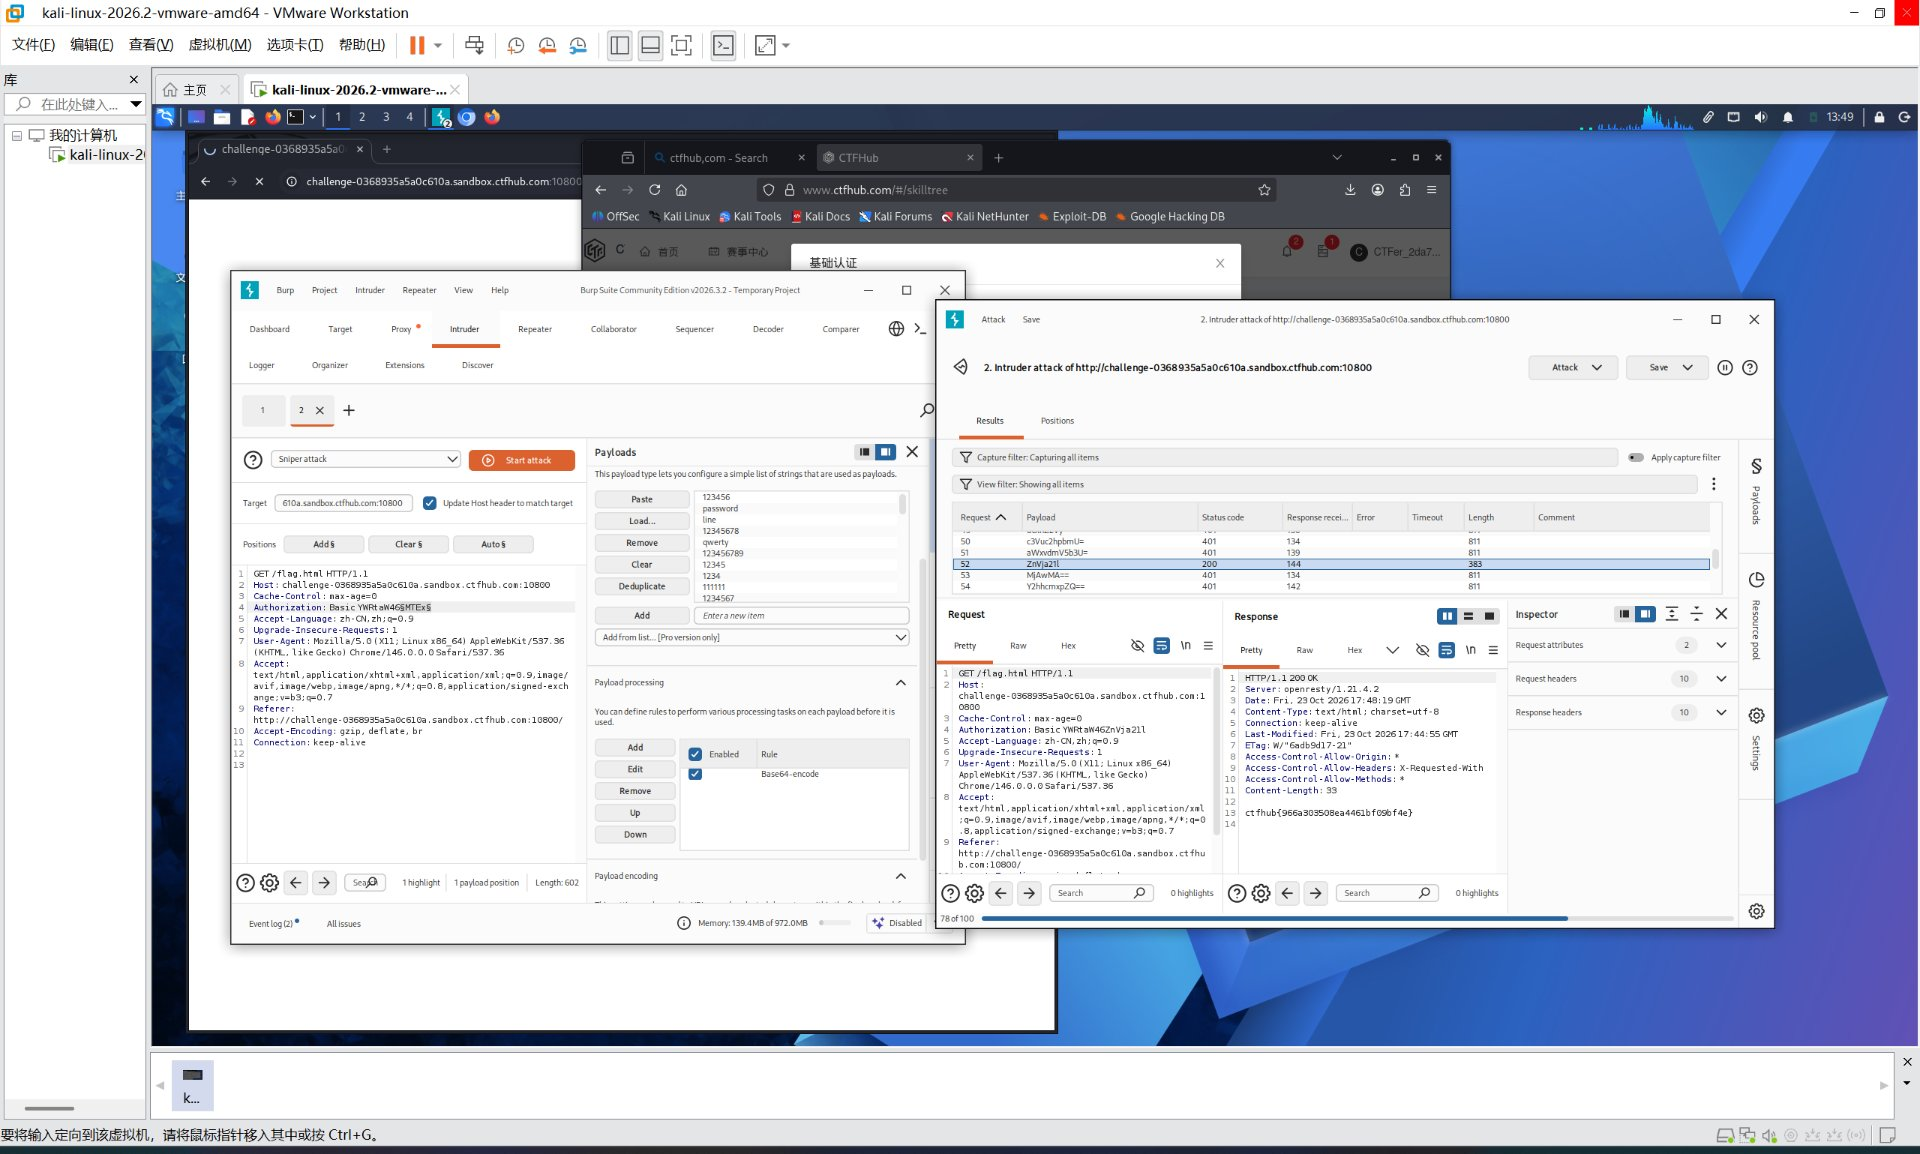
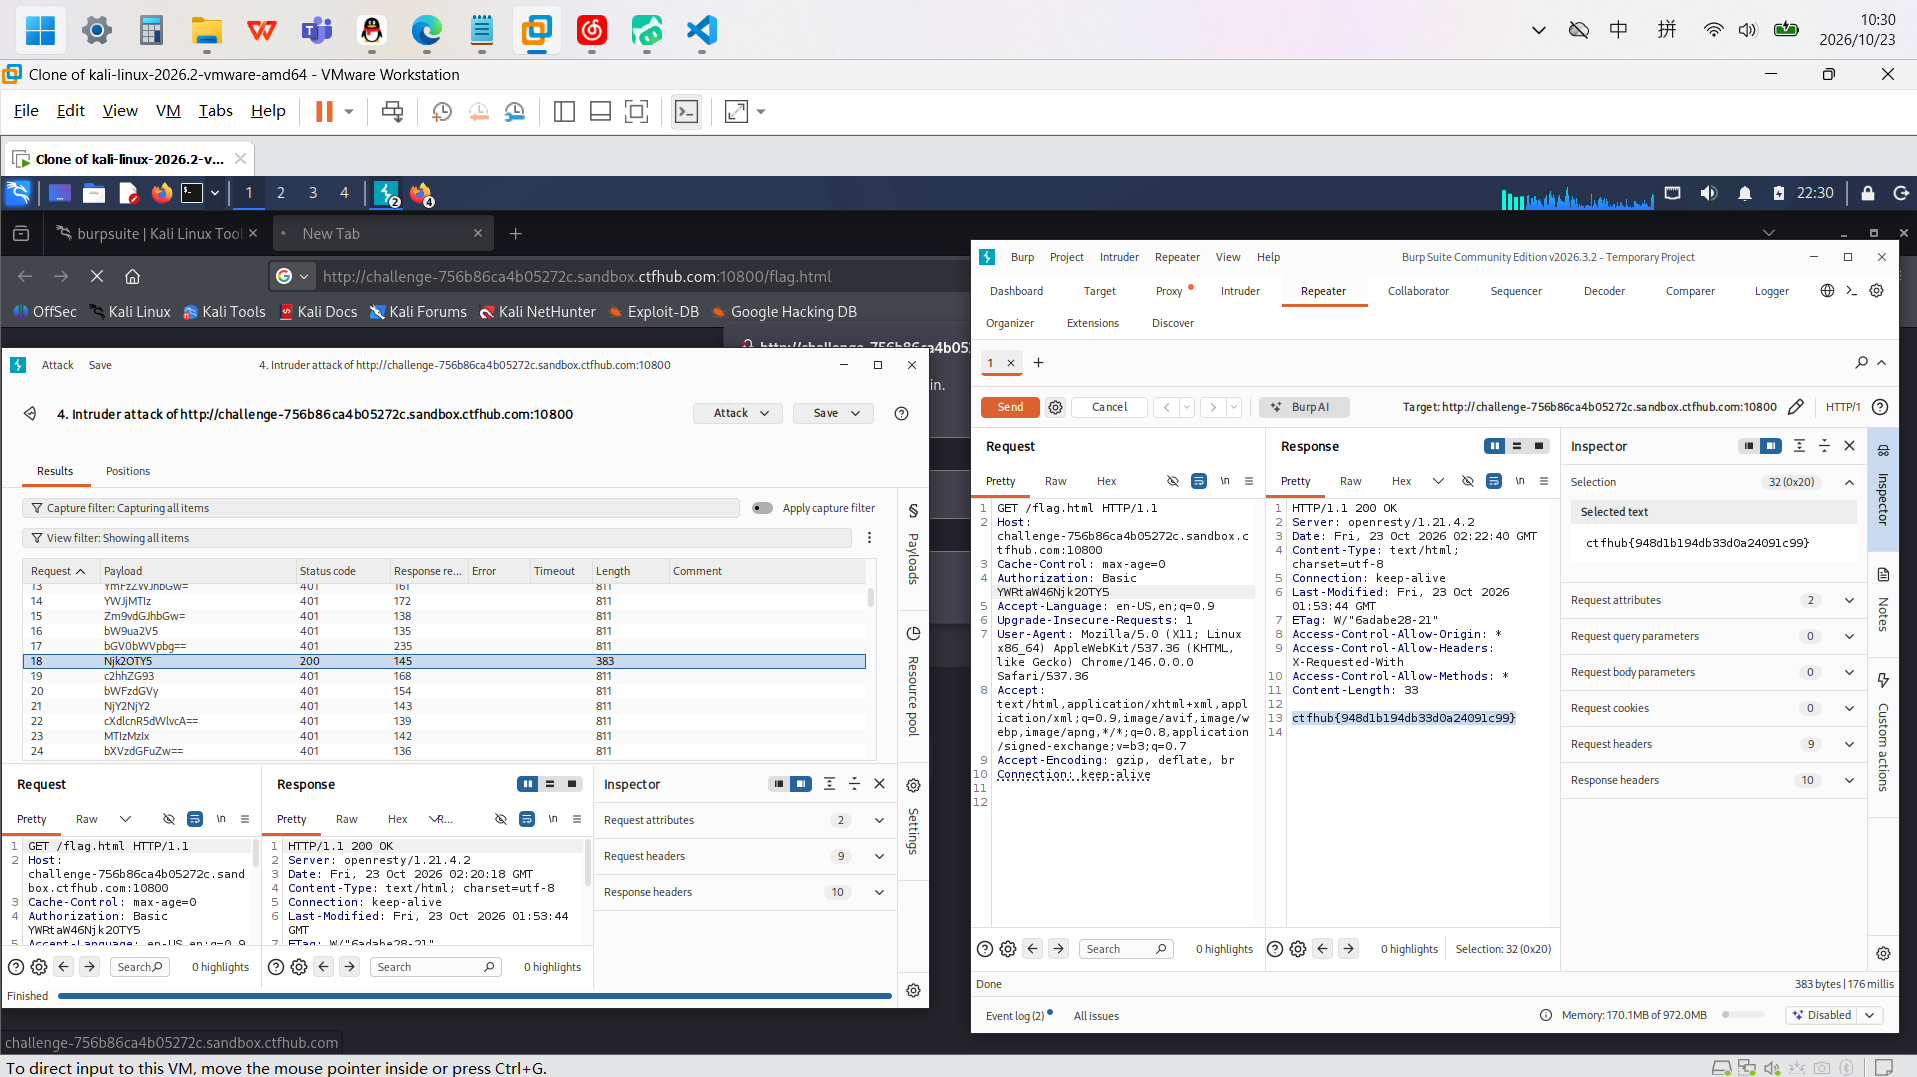
[2026010040段隋]Lab5作业更新（新环境flag与截图）

diff --git a/2026010040段隋/Lab5/wp/wp_basic_auth.md b/2026010040段隋/Lab5/wp/wp_basic_auth.md
@@ -11,33 +11,30 @@
 
 | 项目 | 内容 |
 | --- | --- |
-| 环境地址 | http://challenge-038859a5a0c851e.sandbox.ctfhub.com:10800/ |
-| Flag | ctfhub{966a303508ea4461bf09bf4e} |
+| 环境地址 | http://challenge-756b86ca4b05272c.sandbox.ctfhub.com:10800/ |
+| Flag | ctfhub{948d1b194db33d0a24091c99} |
 
 ## 解题过程
 
-开启题目后访问靶场首页，服务器返回 `401 Unauthorized`，响应头中带 `WWW-Authenticate: Basic realm="..."`，浏览器弹出用户名/密码登录框，说明这是 HTTP Basic 认证。题目提示是弱口令，并且页面提供了「加密访问」选项——勾选后前端会把密码加密再提交。我在 Burp 中把登录请求发送到 Intruder，username 固定为 `admin`，把 `password` 的值设为 payload 位置，用常见弱口令字典逐个尝试。抓到的请求体里，password 是加密后的密文；当密文为 `021256` 时返回 `200 OK`，响应体中直接出现了 flag，它对应的明文密码是 `696969`。请求头中的 `Authorization: Basic YWRtaW46YWRtaW4=`（解码为 `admin:admin`）则体现了 Basic 认证把凭证做 Base64 后放进请求头的方式。
+开启题目后点击页面链接，服务器对 `flag.html` 返回 `401 Unauthorized`，响应头中带 `WWW-Authenticate: Basic realm="Do u know admin ?"`，浏览器弹出用户名/密码登录框，说明这是 HTTP Basic 认证。我先随便填了一组用户名密码，在 Burp 里抓到请求头多了一行 `Authorization: Basic ...`，Base64 解码正好是 `用户名:密码`，验证了它只是编码、没有加密。题目附件是一个常见弱口令字典，于是我把请求发到 Intruder，把 `Basic ` 后面那串编码设为 payload 位置，在 Payload processing 里先加前缀 `admin:`、再做 Base64 编码，并取消 URL 编码（否则编码后的 `=` 会被转成 `%3D` 导致服务端解不开）。开始攻击后按状态码排序，绝大多数是 401，只有一条返回 `200 OK`，对应密码 `696969`，其 `Authorization: Basic YWRtaW46Njk2OTY5` 解码正是 `admin:696969`。用它重放请求，响应体中直接返回了 flag。
 
 ## 关键请求/响应
 
 ```http
 GET /flag.html HTTP/1.1
-Host: challenge-038859a5a0c851e.sandbox.ctfhub.com:10800
-Authorization: Basic YWRtaW46YWRtaW4=
-Content-Type: application/x-www-form-urlencoded
-Content-Length: 30
-
-username=admin&password=021256
+Host: challenge-756b86ca4b05272c.sandbox.ctfhub.com:10800
+Authorization: Basic YWRtaW46Njk2OTY5
+Connection: keep-alive
 
 HTTP/1.1 200 OK
 Server: openresty/1.21.4.2
 Content-Type: text/html; charset=UTF-8
 X-Powered-By: PHP/5.6.40
 
-ctfhub{966a303508ea4461bf09bf4e}
+ctfhub{948d1b194db33d0a24091c99}
 ```
 
-> 说明：请求体中的 `password=021256` 是明文密码 `696969` 在开启「加密访问」后提交的密文。
+> 说明：`YWRtaW46Njk2OTY5` 就是 `base64("admin:696969")`，Base64 只是编码，解码即可还原出用户名和密码。
 
 ## 原理与复盘
 

diff --git a/2026010040段隋/Lab5/wp/wp_dir_traversal.md b/2026010040段隋/Lab5/wp/wp_dir_traversal.md
@@ -11,26 +11,26 @@
 
 | 项目 | 内容 |
 | --- | --- |
-| 环境地址 | http://challenge-ab9f8f67a4237f67.sandbox.ctfhub.com:10800/ |
-| Flag | ctfhub{7484b70b91c3da865496cce4} |
+| 环境地址 | http://challenge-7064c119bbbf8f79.sandbox.ctfhub.com:10800/ |
+| Flag | ctfhub{20160ad52ea9438449fac1a0} |
 
 ## 解题过程
 
-开启题目后访问靶场首页 `/flag_in_here/`，页面是目录索引（autoindex），列出若干以数字命名的子目录。按「目录遍历」的思路，我顺着目录一层层往下点；由于目录层级较深、组合较多，为了更快定位，我也用 Burp Intruder 对目录名做了数字字典爆破，通过响应长度差异区分命中的目录列表页和 404。最终定位到 `/flag_in_here/3/4/` 目录，里面有一个 `flag.txt`，在浏览器打开 `http://challenge-ab9f8f67a4237f67.sandbox.ctfhub.com:10800/flag_in_here/3/4/flag.txt`，页面直接显示出了 flag。
+开启题目后访问靶场首页 `/flag_in_here/`，页面是目录索引（autoindex），列出若干以数字命名的子目录。按「目录遍历」的思路，我顺着目录一层层往下点；由于目录层级较深、组合较多，为了更快定位，我也用 Burp Intruder 对目录名做了数字字典爆破，通过响应长度差异区分命中的目录列表页和 404。最终定位到 `/flag_in_here/2/4/` 目录，里面有一个 `flag.txt`，在浏览器打开 `http://challenge-7064c119bbbf8f79.sandbox.ctfhub.com:10800/flag_in_here/2/4/flag.txt`，页面直接显示出了 flag。
 
 ## 关键请求/响应
 
 ```http
-GET /flag_in_here/3/4/flag.txt HTTP/1.1
-Host: challenge-ab9f8f67a4237f67.sandbox.ctfhub.com:10800
+GET /flag_in_here/2/4/flag.txt HTTP/1.1
+Host: challenge-7064c119bbbf8f79.sandbox.ctfhub.com:10800
 
 HTTP/1.1 200 OK
 Content-Type: text/plain
 
-ctfhub{7484b70b91c3da865496cce4}
+ctfhub{20160ad52ea9438449fac1a0}
 ```
 
-（目录路径为 `/flag_in_here/3/4/flag.txt`；本题不需要修改请求头或请求方法，关键是顺着目录索引逐层遍历。）
+（目录路径为 `/flag_in_here/2/4/flag.txt`；本题不需要修改请求头或请求方法，关键是顺着目录索引逐层遍历。）
 
 ## 原理与复盘
 

diff --git a/2026010040段隋/Lab5/wp/wp_http_method.md b/2026010040段隋/Lab5/wp/wp_http_method.md
@@ -11,28 +11,28 @@
 
 | 项目 | 内容 |
 | --- | --- |
-| 环境地址 | http://challenge-9e6d5f04e6142319.sandbox.ctfhub.com:10800/ |
-| Flag | ctfhub{d9e218bcbcb06ab8a7db27ae} |
+| 环境地址 | http://challenge-416307d3d1399c99.sandbox.ctfhub.com:10800/ |
+| Flag | ctfhub{8c13107b8cf1e51c40ba2109} |
 
 ## 解题过程
 
-打开题目后，浏览器访问 `/index.php`，页面只显示与 HTTP 方法相关的提示，没有 flag，说明服务端是按请求方法区分处理的。我打开 Burp 并开启 Proxy → Intercept，刷新页面拦截到一条 `GET /index.php` 请求；在请求编辑区把请求行第一个词 `GET` 改成 `CTFHUB`，其余请求头原样保留，点 Forward 放行。浏览器页面随即返回 `good job! ctfhub{d9e218bcbcb06ab8a7db27ae}`。这说明服务端只对自定义的 `CTFHUB` 方法返回 flag，默认的 GET 会被拒绝。
+打开题目后，浏览器访问 `/index.php`，页面只显示与 HTTP 方法相关的提示，没有 flag，说明服务端是按请求方法区分处理的。我把这条请求发送到 Burp 的 Repeater，在请求编辑区把请求行第一个词 `GET` 改成 `CTFHUB`，其余请求头原样保留，点 Send 发送。响应面板随即返回 `good job! ctfhub{8c13107b8cf1e51c40ba2109}`。这说明服务端只对自定义的 `CTFHUB` 方法返回 flag，默认的 GET 会被拒绝。
 
 ## 关键请求/响应
 
 ```http
 CTFHUB /index.php HTTP/1.1
-Host: challenge-9e6d5f04e6142319.sandbox.ctfhub.com:10800
+Host: challenge-416307d3d1399c99.sandbox.ctfhub.com:10800
 User-Agent: Mozilla/5.0 (X11; Linux x86_64) AppleWebKit/537.36 (KHTML, like Gecko) Chrome/146.0.0.0 Safari/537.36
 Accept: image/avif,image/webp,image/apng,image/svg+xml,image/*,*/*;q=0.8
-Referer: http://challenge-9e6d5f04e6142319.sandbox.ctfhub.com:10800/index.php
+Referer: http://challenge-416307d3d1399c99.sandbox.ctfhub.com:10800/index.php
 Accept-Encoding: gzip, deflate, br
 Connection: keep-alive
 
 HTTP/1.1 200 OK
 Content-Type: text/html; charset=UTF-8
 
-good job! ctfhub{d9e218bcbcb06ab8a7db27ae}
+good job! ctfhub{8c13107b8cf1e51c40ba2109}
 ```
 
 ## 原理与复盘

diff --git a/2026010040段隋/Lab5/wp/wp_redirect_302.md b/2026010040段隋/Lab5/wp/wp_redirect_302.md
@@ -11,18 +11,18 @@
 
 | 项目 | 内容 |
 | --- | --- |
-| 环境地址 | http://challenge-91921174854df8a1.sandbox.ctfhub.com:10800/ |
-| Flag | ctfhub{468ff017654153f7eaef5f74} |
+| 环境地址 | http://challenge-2115f1620465970.sandbox.ctfhub.com:10800/ |
+| Flag | ctfhub{4a7114d2e7922f0464063829} |
 
 ## 解题过程
 
-打开题目后，浏览器访问 `/index.html`，页面只显示「No Flag here!」和一个「Give me Flag」链接，没有 flag。点击「Give me Flag」时页面会请求 `/index.php`，但浏览器立刻又跳回 `index.html`，看起来什么都没发生。为了看清跳转前的真实响应，我打开 Burp 的 Proxy → HTTP history，找到那条 `GET /index.php` 请求：状态码是 `302 Moved Temporarily`，响应头里有 `Location: /index.html`，而 302 的响应体里正是 flag。浏览器会自动跟随 Location，把这段 302 响应连同响应体隐藏掉了，所以只盯最终页面永远看不到 flag，必须看原始报文。
+打开题目后，浏览器访问 `/index.html`，页面只显示「No Flag here!」和一个「Give me Flag」链接，没有 flag。点击「Give me Flag」时页面会请求 `/index.php`，但浏览器立刻又跳回 `index.html`，看起来什么都没发生。为了看清跳转前的真实响应，我把对 `/index.php` 的请求发到 Burp 的 Repeater 重放：状态码是 `302 Moved Temporarily`，响应头里有 `Location: /index.html`，而 302 的响应体里正是 flag。浏览器会自动跟随 Location，把这段 302 响应连同响应体隐藏掉了，所以只盯最终页面永远看不到 flag，必须看原始报文。
 
 ## 关键请求/响应
 
 ```http
 GET /index.php HTTP/1.1
-Host: challenge-91921174854df8a1.sandbox.ctfhub.com:10800
+Host: challenge-2115f1620465970.sandbox.ctfhub.com:10800
 
 HTTP/1.1 302 Moved Temporarily
 Server: openresty/1.21.4.2
@@ -36,7 +36,7 @@ Access-Control-Allow-Headers: X-Requested-With
 Access-Control-Allow-Methods: *
 Content-Length: 33
 
-ctfhub{468ff017654153f7eaef5f74}
+ctfhub{4a7114d2e7922f0464063829}
 ```
 
 ## 原理与复盘

diff --git a/2026010040段隋/Lab5/Lab5.md b/2026010040段隋/Lab5/Lab5.md
@@ -180,12 +180,12 @@ Content-Type: text/html
 
 | 题目 | CTFHub 路径 | WP 文件 | Flag |
 | --- | --- | --- | --- |
-| 目录遍历 | 信息泄露 → 目录遍历 | [wp_dir_traversal.md](wp/wp_dir_traversal.md) | ctfhub{7484b70b91c3da865496cce4} |
-| PHPINFO | 信息泄露 → PHPINFO | [wp_phpinfo.md](wp/wp_phpinfo.md) | ctfhub{05dbf88b16fa745693dab6fd} |
-| 请求方式 | Web 前置技能 → HTTP 协议 → 请求方式 | [wp_http_method.md](wp/wp_http_method.md) | ctfhub{d9e218bcbcb06ab8a7db27ae} |
-| 302 跳转 | Web 前置技能 → HTTP 协议 → 302 跳转 | [wp_redirect_302.md](wp/wp_redirect_302.md) | ctfhub{468ff017654153f7eaef5f74} |
-| Cookie | Web 前置技能 → HTTP 协议 → Cookie | [wp_cookie.md](wp/wp_cookie.md) | ctfhub{6f48b9706574da4243063d7b} |
-| 基础认证 | Web 前置技能 → HTTP 协议 → 基础认证 | [wp_basic_auth.md](wp/wp_basic_auth.md) | ctfhub{966a303508ea4461bf09bf4e} |
+| 目录遍历 | 信息泄露 → 目录遍历 | [wp_dir_traversal.md](wp/wp_dir_traversal.md) | ctfhub{20160ad52ea9438449fac1a0} |
+| PHPINFO | 信息泄露 → PHPINFO | [wp_phpinfo.md](wp/wp_phpinfo.md) | ctfhub{193d5db7d5ddc394bd67ea30} |
+| 请求方式 | Web 前置技能 → HTTP 协议 → 请求方式 | [wp_http_method.md](wp/wp_http_method.md) | ctfhub{8c13107b8cf1e51c40ba2109} |
+| 302 跳转 | Web 前置技能 → HTTP 协议 → 302 跳转 | [wp_redirect_302.md](wp/wp_redirect_302.md) | ctfhub{4a7114d2e7922f0464063829} |
+| Cookie | Web 前置技能 → HTTP 协议 → Cookie | [wp_cookie.md](wp/wp_cookie.md) | ctfhub{562beea6169241eae130ffa0} |
+| 基础认证 | Web 前置技能 → HTTP 协议 → 基础认证 | [wp_basic_auth.md](wp/wp_basic_auth.md) | ctfhub{948d1b194db33d0a24091c99} |
 
 > 每道题的题目要求、提示、截图要求和写作提示都写在对应的 WP 模板里。**不要改动 WP 文件名和本表的链接**；如果某道题临时下线，按老师通知替换题目，并同步修改本表和对应 WP，不要删除整行。
 >

diff --git a/2026010040段隋/Lab5/wp/wp_phpinfo.md b/2026010040段隋/Lab5/wp/wp_phpinfo.md
@@ -11,24 +11,24 @@
 
 | 项目 | 内容 |
 | --- | --- |
-| 环境地址 | http://challenge-b9eb2588bcdf005e.sandbox.ctfhub.com:10800/phpinfo.php |
-| Flag | ctfhub{05dbf88b16fa745693dab6fd} |
+| 环境地址 | http://challenge-3b5c4ce175453a7e.sandbox.ctfhub.com:10800/phpinfo.php |
+| Flag | ctfhub{193d5db7d5ddc394bd67ea30} |
 
 ## 解题过程
 
-开启题目后，根据提示直接访问 `/phpinfo.php`，页面是 PHP 7.3.14 的 `phpinfo()` 输出，包含大量服务器配置信息。由于页面很长，我用查找功能（浏览器 `Ctrl + F`，或 Burp 响应面板的搜索框）搜索关键字 `ctfhub`，很快命中多处，其中一处是 `FLAG` 字段，值就是 `ctfhub{05dbf88b16fa745693dab6fd}`。同时页面还暴露了 PHP 版本、Server API、DOCUMENT_ROOT、环境变量等敏感信息。
+开启题目后，根据提示直接访问 `/phpinfo.php`，页面是 PHP 7.3.14 的 `phpinfo()` 输出，包含大量服务器配置信息。由于页面很长，我用查找功能（浏览器 `Ctrl + F`，或 Burp 响应面板的搜索框）搜索关键字 `ctfhub`，很快命中多处，其中一处是 `FLAG` 字段，值就是 `ctfhub{193d5db7d5ddc394bd67ea30}`。同时页面还暴露了 PHP 版本、Server API、DOCUMENT_ROOT、环境变量等敏感信息。
 
 ## 关键请求/响应
 
 ```http
 GET /phpinfo.php HTTP/1.1
-Host: challenge-b9eb2588bcdf005e.sandbox.ctfhub.com:10800
+Host: challenge-3b5c4ce175453a7e.sandbox.ctfhub.com:10800
 
 HTTP/1.1 200 OK
 Content-Type: text/html; charset=UTF-8
 
 ...
-<tr><td class="e">FLAG</td><td class="v">ctfhub{05dbf88b16fa745693dab6fd}</td></tr>
+<tr><td class="e">FLAG</td><td class="v">ctfhub{193d5db7d5ddc394bd67ea30}</td></tr>
 ...
 ```
 

diff --git a/2026010040段隋/Lab5/wp/wp_cookie.md b/2026010040段隋/Lab5/wp/wp_cookie.md
@@ -11,8 +11,8 @@
 
 | 项目 | 内容 |
 | --- | --- |
-| 环境地址 | http://challenge-b9f4c3fa69af689d.sandbox.ctfhub.com:10800/ |
-| Flag | ctfhub{6f48b9706574da4243063d7b} |
+| 环境地址 | http://challenge-a635a42da12eca53.sandbox.ctfhub.com:10800/ |
+| Flag | ctfhub{562beea6169241eae130ffa0} |
 
 ## 解题过程
 
@@ -22,13 +22,13 @@
 
 ```http
 GET / HTTP/1.1
-Host: challenge-b9f4c3fa69af689d.sandbox.ctfhub.com:10800
+Host: challenge-a635a42da12eca53.sandbox.ctfhub.com:10800
 Cookie: admin=1
 
 HTTP/1.1 200 OK
 Content-Type: text/html; charset=UTF-8
 
-ctfhub{6f48b9706574da4243063d7b}
+ctfhub{562beea6169241eae130ffa0}
 ```
 
 ## 原理与复盘
